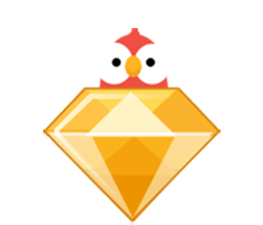
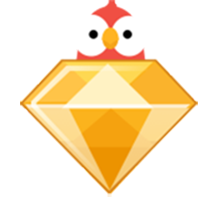
奇数宽高png图片批量转换为偶数宽高，使用增加透明背景的方式

diff --git a/path/odd-to-even.js b/path/odd-to-even.js
@@ -1,0 +1,66 @@
+'use strict';
+let path = require('path');
+let fs = require('fs');
+let Sharp = require('sharp');
+
+let inputDir = '/Users/newyoung/NodeJS_learn/sharp/input';
+let outPutDir = '/Users/newyoung/NodeJS_learn/sharp/output';
+
+function dirSync(dir,callback){//遍历目录
+    fs.readdirSync(dir).forEach(function(file){
+        let pathName = path.join(dir,file);
+        //如果当前文件是目录则继续遍历
+        if(fs.statSync(pathName).isDirectory()){
+            dirSync(pathName,callback);
+        }else{
+            callback(pathName,file);
+        }
+    });
+}
+
+function oddToEven(pathName,fileName){//处理图片
+    Sharp(pathName)
+        .metadata()
+        .then(info => {
+            var size = {
+                width:info.width,
+                height:info.height
+            };
+
+            //判断尺寸
+            size.width = size.width%2==0?size.width:size.width+1;
+            size.height = size.height%2==0?size.height:size.height+1;
+
+            if(size.width==info.width&&size.height==info.height){
+                //宽高均为偶数，不作处理
+            }else{
+                //生成偶数透明背景
+                var emptyImage = Sharp({
+                    create: {
+                        width: size.width,
+                        height: size.height,
+                        channels: 4,
+                        background: { r: 255, g: 255, b: 255 , alpha: 0 }
+                    }
+                }).png();
+
+                emptyImage.overlayWith(pathName, { gravity: Sharp.gravity.southeast } )
+                    .toFile(outPutDir+'/'+fileName, function(err) {
+                        if(err){
+                            console.log(err);
+                        }else{
+                            console.log('success');
+                        }
+                    });
+            }
+        })
+        .catch(err => {
+            if(err){
+                console.log(err)
+            }
+        })
+}
+
+dirSync(inputDir,oddToEven);
+
+

diff --git a/sharp/demo0.js b/sharp/demo0.js
@@ -29,8 +29,7 @@ Sharp(inputPath)//输入图片路径
                 channels: 4,
                 background: { r: 255, g: 255, b: 255 , alpha: 0 }
             }
-        })
-            .png();
+        }).png();
 
         emptyImage.overlayWith(inputPath, { gravity: Sharp.gravity.southeast } )
             //.toBuffer()//输出buffer形式
